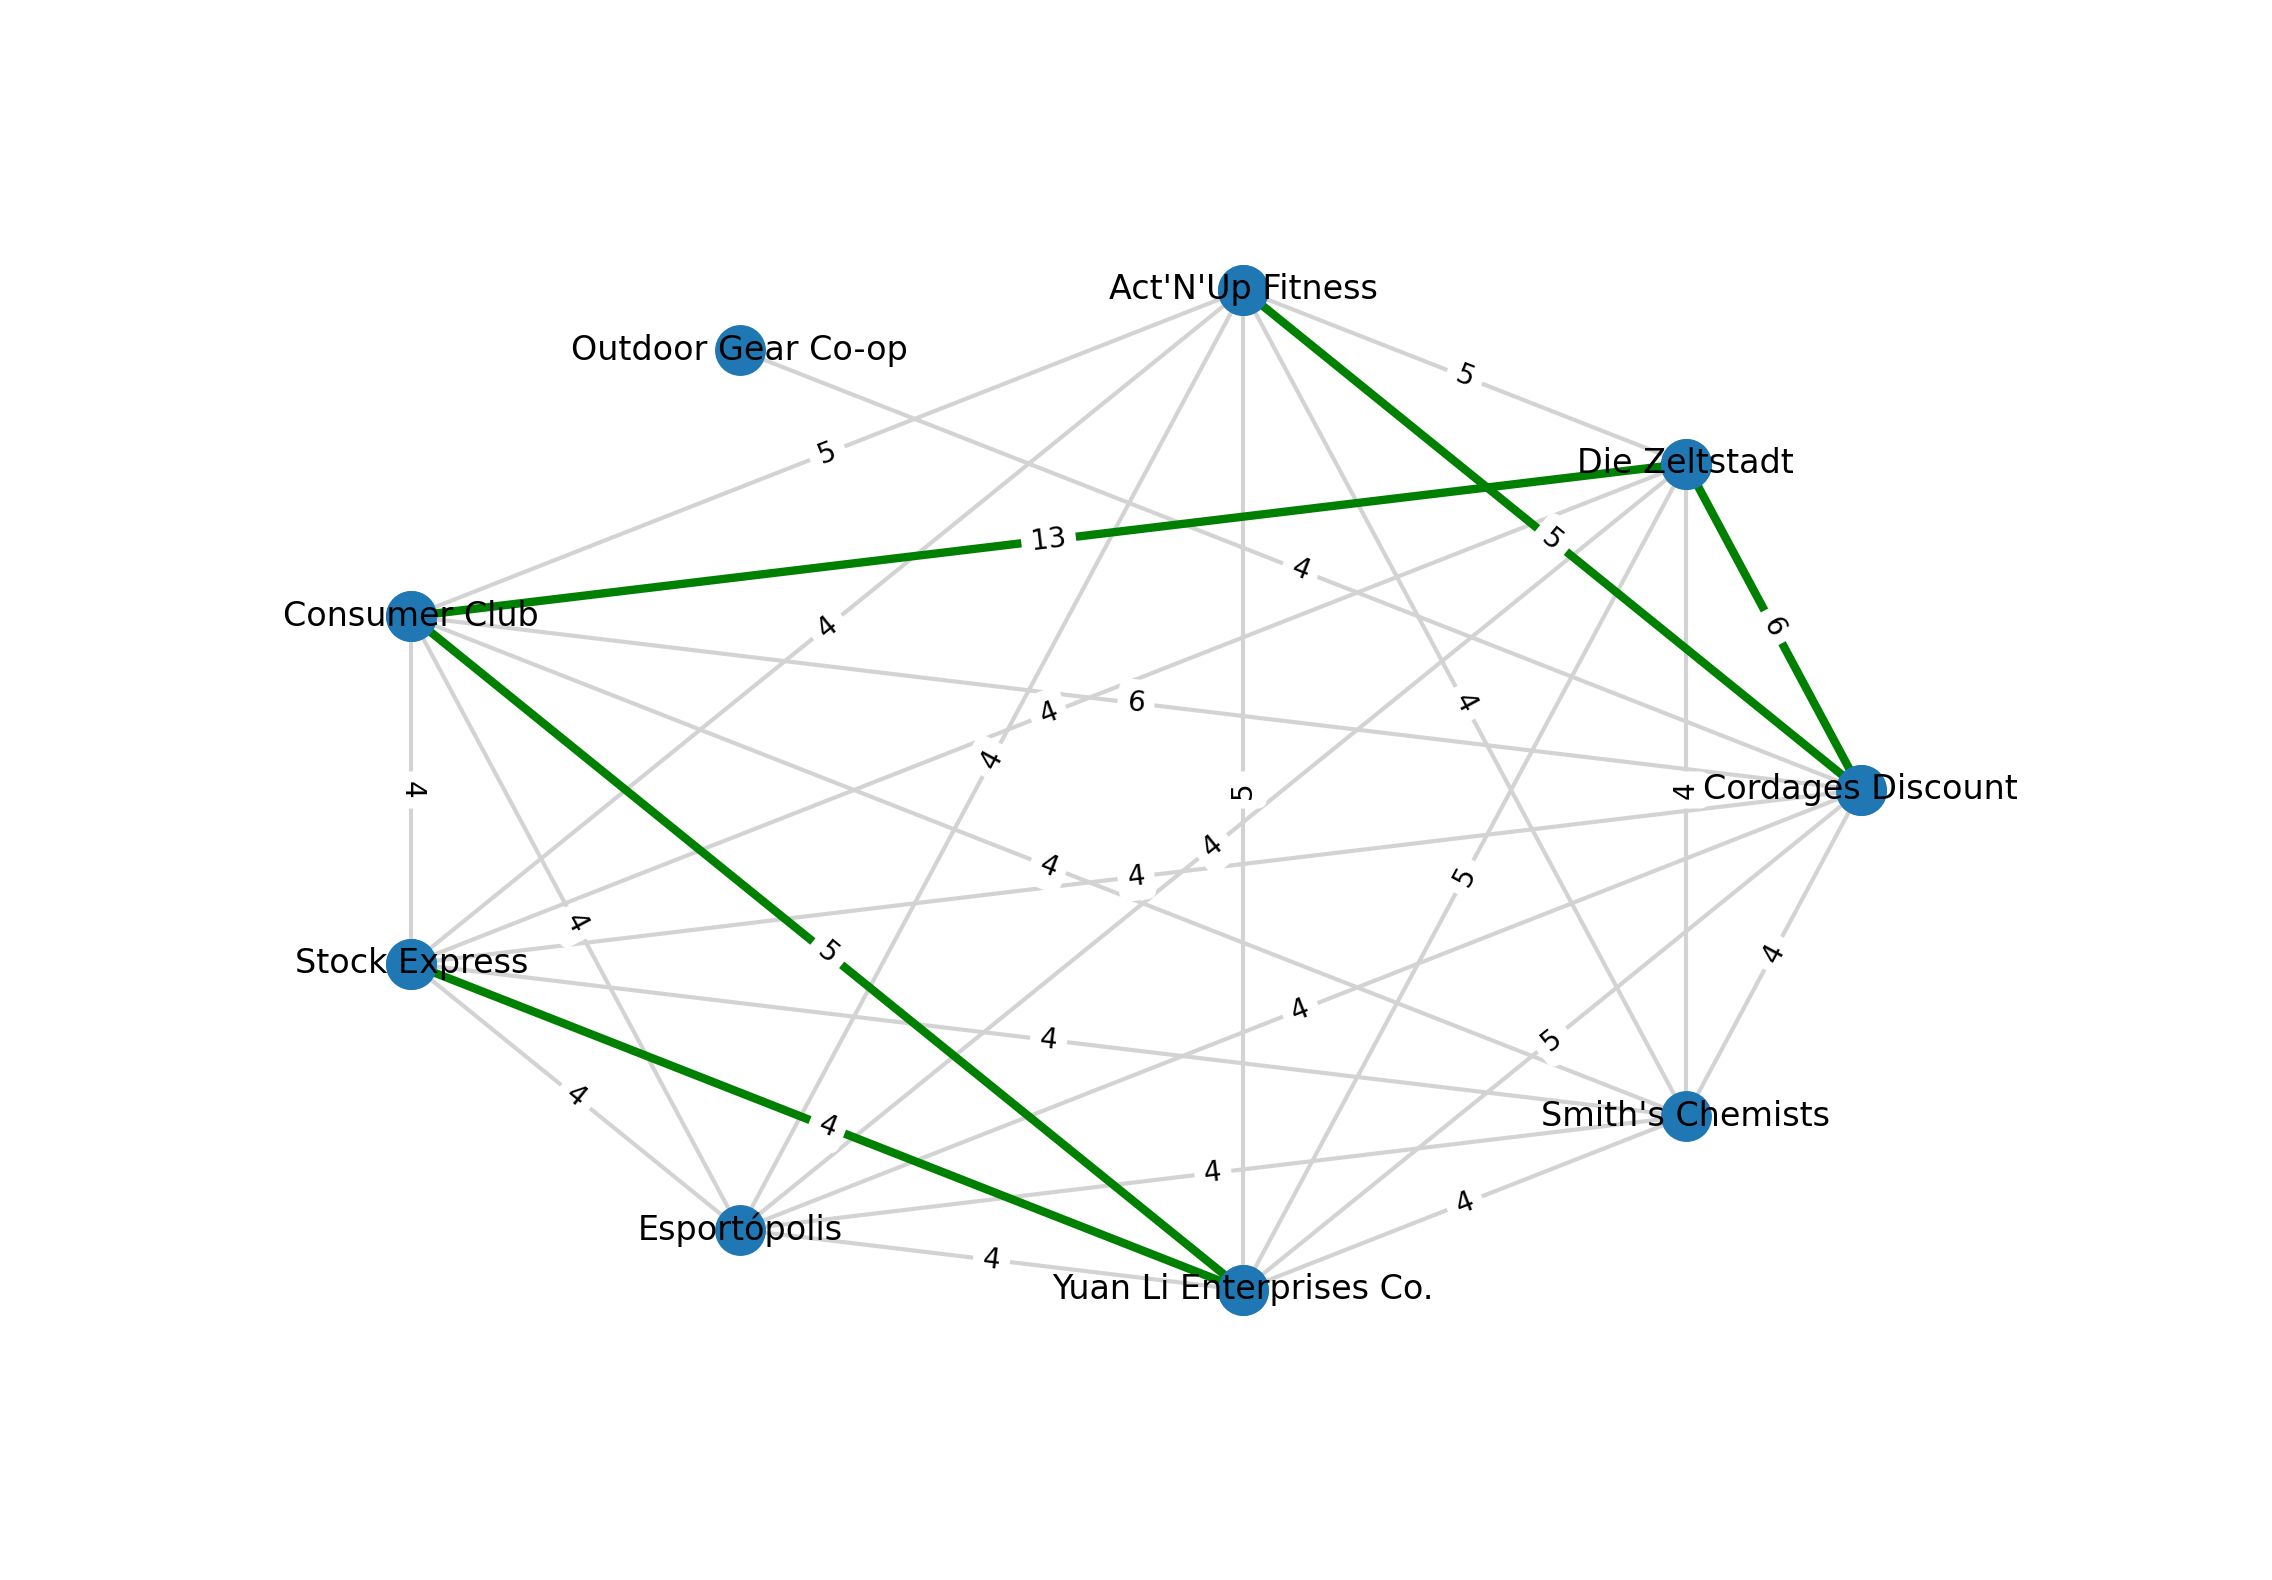
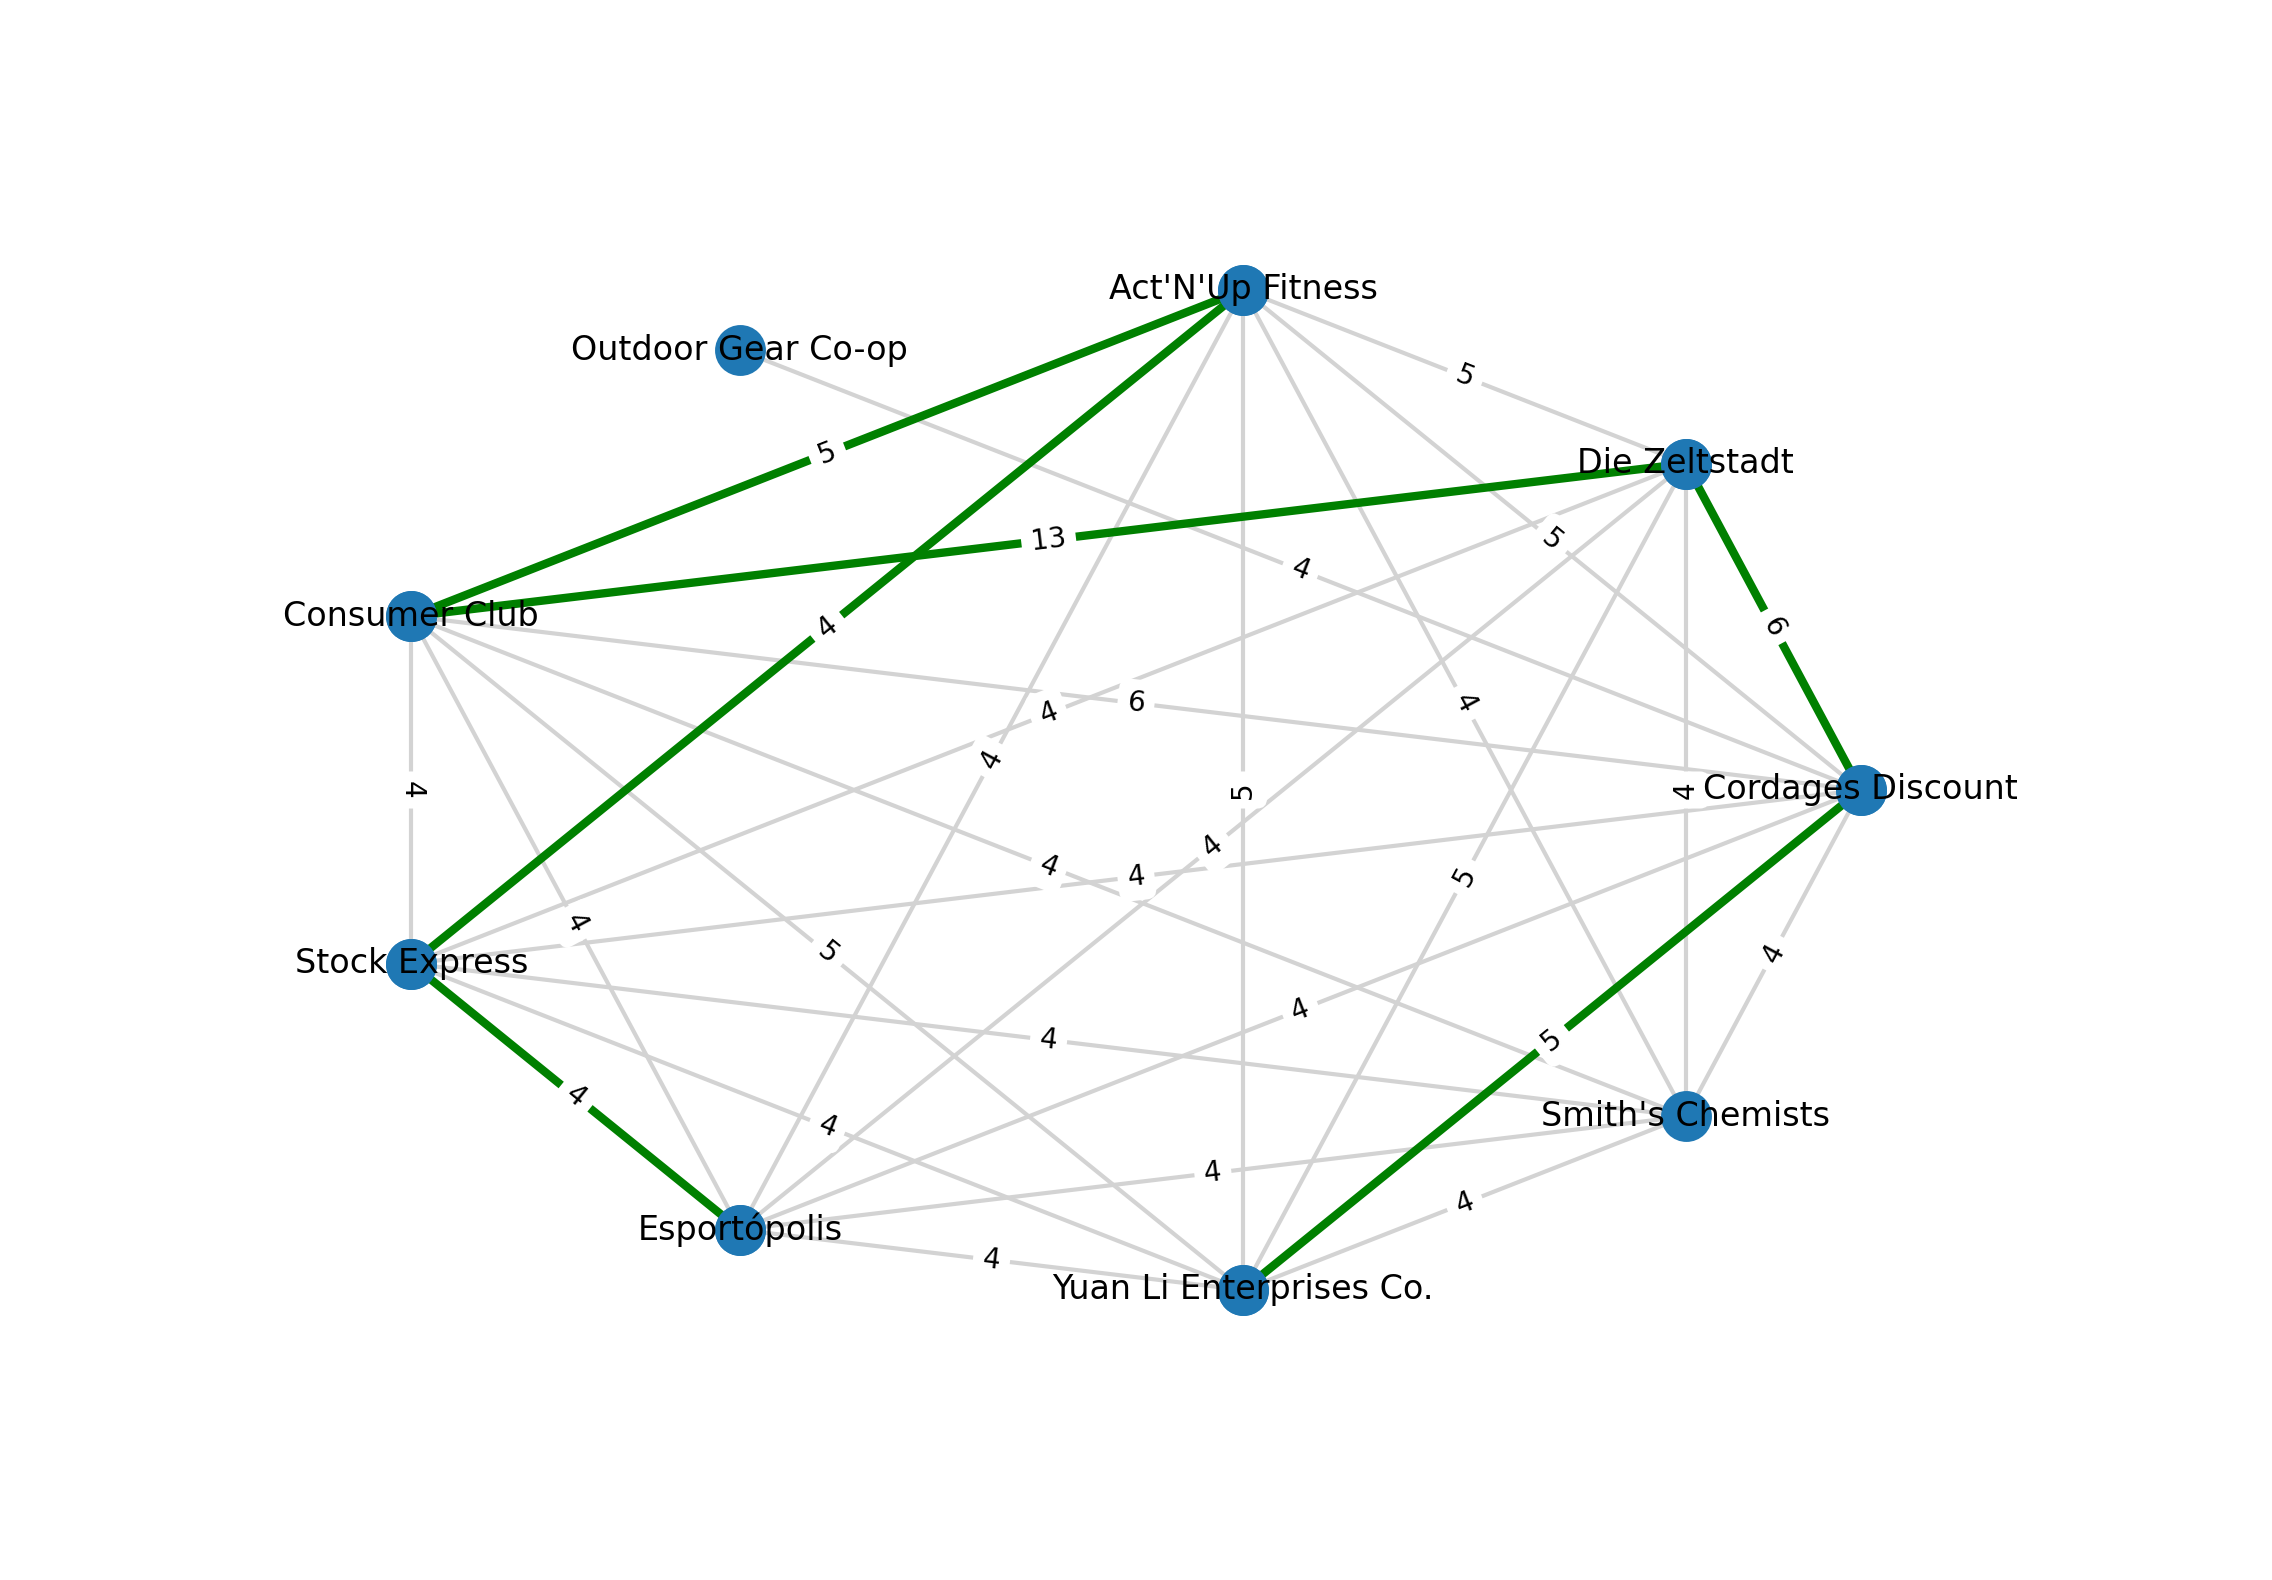
documentazione docx e pdf della relazione tecnica

diff --git a/UI/controller.py b/UI/controller.py
@@ -36,11 +36,6 @@ class Controller:
             self._view.update_page()
             return
 
-        if affinity is None:
-            self._view.txt_result_temp.controls.clear()
-            self._view.txt_result_temp.controls.append(ft.Text(f"Attenzione, selezionare una soglia di affinità dal relativo slider", color = "red"))
-            self._view.update_page()
-            return
 
         if dateFrom is None or dateTo is None:
             self._view.txt_result_temp.controls.clear()
